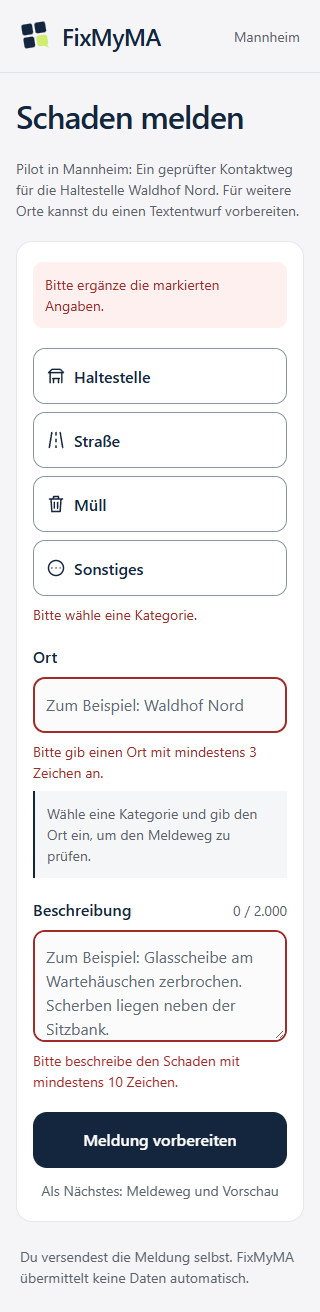
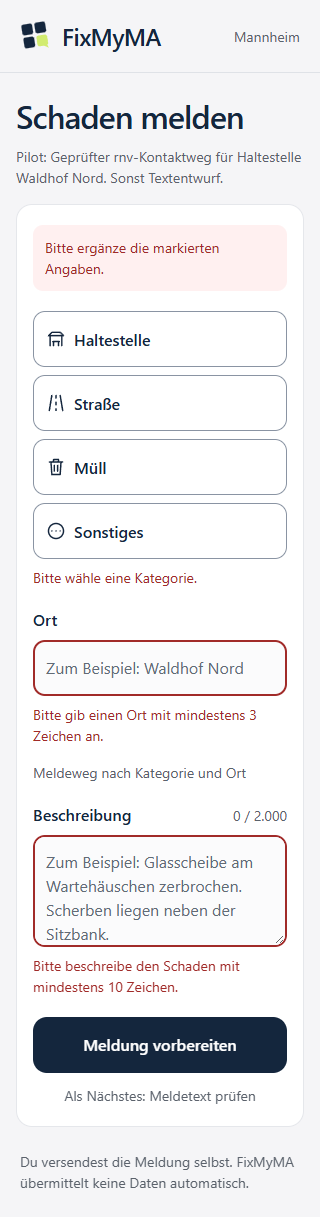
style: tighten pilot guidance and route notice spacing

diff --git a/src/App.tsx b/src/App.tsx
@@ -130,7 +130,7 @@ function App() {
           </div>
         ) : (
           <>
-          <p className="pilot-scope">Pilot in Mannheim: Ein geprüfter Kontaktweg für die Haltestelle Waldhof Nord. Für weitere Orte kannst du einen Textentwurf vorbereiten.</p>
+          <p className="pilot-scope">Pilot: Geprüfter rnv-Kontaktweg für Haltestelle Waldhof Nord. Sonst Textentwurf.</p>
           <form ref={formRef} onSubmit={submit} noValidate>
             {Object.values(errors).some(Boolean) && (
               <p className="error error-summary" role="alert">Bitte ergänze die markierten Angaben.</p>
@@ -164,7 +164,7 @@ function App() {
               {errors.location && <p className="error" id="location-error">{errors.location}</p>}
               <div className="route-notice" id="location-route" role="status" aria-live="polite" aria-atomic="true">
                 {!canCheckRoute ? (
-                  <p className="hint">Wähle eine Kategorie und gib den Ort ein, um den Meldeweg zu prüfen.</p>
+                  <p className="hint">Meldeweg nach Kategorie und Ort</p>
                 ) : hasOfficialRoute ? (
                   <>
                     <p className="route-notice-title">Geprüfter Meldeweg: rnv</p>
@@ -196,7 +196,7 @@ function App() {
 
             <div className="form-actions">
               <button className="primary" type="submit">Meldung vorbereiten</button>
-              <p className="hint">Als Nächstes: Meldeweg und Vorschau</p>
+              <p className="hint">Als Nächstes: Meldetext prüfen</p>
             </div>
           </form>
           </>

diff --git a/src/App.css b/src/App.css
@@ -25,10 +25,11 @@ form {
   background: var(--paper);
 }
 fieldset { border: 0; padding: 0; margin: 0; min-width: 0; }
-.pilot-scope { color: var(--secondary); font-size: 0.875rem; line-height: 1.5; margin: 0 0 20px; }
-.route-notice { padding: 12px; border-left: 2px solid var(--ink); background: #f5f6f8; line-height: 1.5; }
+.form-page h1 { margin-bottom: 12px; }
+.pilot-scope { color: var(--secondary); font-size: 0.875rem; line-height: 1.5; margin: 0 0 16px; }
+.route-notice { padding-top: 8px; line-height: 1.5; overflow-wrap: anywhere; }
 .route-notice-title { font-size: 0.875rem; font-weight: 600; }
-.route-notice p + p { margin-top: 8px; }
+.route-notice p + p { margin-top: 4px; }
 .route-notice a { display: flex; align-items: center; min-height: 48px; padding-block: 8px; font-size: 0.875rem; overflow-wrap: anywhere; }
 .categories { display: grid; grid-template-columns: repeat(auto-fit, minmax(min(100%, 8.5rem), 1fr)); gap: 8px; }
 .category {

diff --git a/src/routing.ts b/src/routing.ts
@@ -17,7 +17,7 @@ export function resolveReportingRoute(draft: Pick<ReportDraft, 'category' | 'loc
     return {
       kind: 'official-contact' as const,
       contact: reportingContacts.rnv,
-      explanation: 'Die Wartungszuständigkeit für die konkrete Glasscheibe ist nicht bestätigt.',
+      explanation: 'Wer die Glasscheibe wartet, ist nicht bestätigt.',
     }
   }
   return {

diff --git a/docs/pilot-review.md b/docs/pilot-review.md
@@ -1,0 +1,73 @@
+# FixMyMA: Pilot-Ablauf und Unslop-Nachprüfung
+
+22.11.2026 · Branch `feat/apple-inspired-design` · PR #8 bleibt zur Review offen.
+
+## Umfang und Ablauf
+
+Ausgangspunkt war `6fb9393`. Der vorhandene Formular-/Vorschaufluss war die Ablaufreferenz; im Auftrag war kein zusätzlicher Referenzlink enthalten.
+
+Der aktuelle Pilot unterstützt genau den bereits hinterlegten Kontaktweg: Kategorie Haltestelle, Ort Waldhof Nord einschließlich der vorhandenen Schreibweisen. Kontakt und Matching wurden nicht erweitert. Der kompakte, dunkelblaue Entwurf bleibt erhalten. Neue Kontakte benötigen weiterhin verifizierte Quellen.
+
+Der Umfang steht als kurzer Absatz direkt vor dem Formular. Sobald Kategorie und Ort gültig ausgefüllt sind, wird mit dem vorhandenen Routing ein Hinweis direkt unter dem Ort angezeigt. Eine Beschreibung ist dafür nicht nötig:
+
+- **Waldhof Nord / Haltestelle:** geprüfter rnv-Meldeweg, Hinweis auf die ungeklärte Wartungszuständigkeit und sofort nutzbarer rnv-Link im neuen Tab.
+- **Andere Kombinationen:** „Meldeweg offen“, ohne erfundenen Kontakt. Beschreibung, Textentwurf, Vorschau und Kopieren bleiben möglich.
+- **Unvollständige Eingaben:** neutraler Hinweis; keine voreilige Zusage eines geprüften Kontakts. Die vorhandene Eingabeprüfung bleibt maßgeblich.
+
+Kategorie- oder Ortsänderungen aktualisieren den Hinweis direkt. Der Status ist dem Ortsfeld zugeordnet und als höfliche Live-Region ausgezeichnet. Der Link liegt in der normalen Tab-Reihenfolge vor der Beschreibung. Ein Neuladen verwirft weiterhin die Daten; es gibt keinen automatischen Versand.
+
+Der Ablauf wurde separat als `148bbe9` committet. Der anschließende Commit enthält ausschließlich den Text-/Abstandsfeinschliff und seine Nachweise.
+
+## Unslop-Pass: Texte und Abstände
+
+Nach [Unslop von Damir Sokolovsky (@heydamir)](https://github.com/heydamir/unslop/blob/main/skills/unslop/SKILL.md), CC BY 4.0. Tatsächlich gerenderte Ansichten wurden vor und nach der Umsetzung bei 320 und 390 px geprüft. Keine Bild- oder Videogenerierung, keine zusätzliche Landingpage.
+
+Die Richtung bleibt: ein ruhiges, präzises Meldewerkzeug für Mannheim. Die Handlung und der Kontaktstatus tragen die Hierarchie; das bestehende Logo bleibt die Wiedererkennung. Farben, Symbole und große Bedienelemente des PR werden beibehalten.
+
+Befunde der ersten Ablaufversion: der Umfang war länger als nötig, die zusätzliche graue Hinweisfläche wirkte wie eine verschachtelte Kachel, und der Hinweis auf den nächsten Schritt erwähnte den Meldeweg erneut, obwohl dieser schon geprüft ist.
+
+Konkrete Korrekturen:
+
+- Titelabstand zum Pilotumfang auf 12 px, Umfangsabstand zum Formular auf 16 px verkürzt.
+- Umfang auf den geprüften Fall und den Textentwurf für weitere Orte konzentriert.
+- Hinweis unter dem Ort ohne zusätzliche Kachel oder farbige Fläche; Titel, kurze Erklärung und eine mindestens 48 px hohe Linkfläche.
+- Den langen Wartungsbegriff durch „Wer die Glasscheibe wartet, ist nicht bestätigt“ ersetzt. Die fachliche Unsicherheit bleibt erhalten.
+- Hilfstext beim Hauptbutton nennt jetzt den tatsächlichen nächsten Schritt: „Meldetext prüfen“.
+- Keine neue Farbe, kein neues Icon-System und keine Bewegung ergänzt. Haken, Fokuszustände, Schriftgrößen und 56-px-Hauptaktionen bleiben erhalten.
+
+## Vorher-/Nachher-Nachweise
+
+In allen Eingabe-Aufnahmen ist die Beschreibung absichtlich noch leer. Der Unterschied ist der sichtbare Kontaktstatus vor der Texterfassung.
+
+| Fall | Vorher | Nachher |
+| --- | --- | --- |
+| Waldhof Nord · 320 px | [Screenshot](screenshots/pilot/before-320-known.png) | [Screenshot](screenshots/pilot/after-320-known.png) |
+| Meldeweg offen · 320 px | [Screenshot](screenshots/pilot/before-320-open.png) | [Screenshot](screenshots/pilot/after-320-open.png) |
+| Waldhof Nord · 390 px | [Screenshot](screenshots/pilot/before-390-known.png) | [Screenshot](screenshots/pilot/after-390-known.png) |
+| Meldeweg offen · 390 px | [Screenshot](screenshots/pilot/before-390-open.png) | [Screenshot](screenshots/pilot/after-390-open.png) |
+
+Zwischenstand vor dem Unslop-Pass: [bekannter Fall, 390 px](screenshots/pilot/flow-390-known.png). Desktop-Nachprüfung: [bekannt](screenshots/pilot/after-1440-known.png), [offen](screenshots/pilot/after-1440-open.png).
+
+## Prüfungen
+
+Verwendet wurde der bereits vom Nutzer freigegebene separate Playwright-Testbrowser: Headless Chrome 157.0.8103.79 unter Windows, eigenes Testprofil. Mobile Viewports wurden emuliert; echte Geräte stehen nicht zur Verfügung. Die Hilfswerkzeuge liegen in einem ignorierten lokalen Verzeichnis; keine App-Abhängigkeiten wurden hinzugefügt.
+
+Bei 320 × 844, 390 × 844 und 1440 × 1000 px wurden jeweils sechs Szenarien geprüft:
+
+1. Kategorie und Ort zeigen den Kontaktstatus vor einer Beschreibung. Ein Ort ohne Kategorie gibt noch keinen Kontakt frei. Kategorie-/Ortsänderungen wechseln zwischen bekannt und offen; der frühe Link hat das bestehende offizielle Ziel und liegt räumlich vor der Beschreibung.
+2. Leere Eingaben und reine Leerzeichen: Fehlermeldungen und Fokus auf das erste fehlerhafte Feld.
+3. Waldhof Nord: Vorschau und Kontaktziel, echte Clipboard-Schreib-/Leseprüfung des vollständigen Meldetexts.
+4. Aufklappbare Quelle, Bearbeiten mit erhaltenen Werten, Wechsel auf Paradeplatz und geänderte Beschreibung, offener Meldeweg ohne Kontakt sowie weiterhin kopierbarer Text.
+5. Tastatur: Radiogruppe mit Pfeiltasten, Ort, früher rnv-Link, Beschreibung, Absenden und Kopieren. Die Einführung des Links verschluckt keinen Fokus und verlangt kein Tippen der Beschreibung zum Prüfen des Meldewegs.
+6. Simulierter Clipboard-API-Fehler: verständliche Rückmeldung, Fokus und Auswahl auf dem Text. Anschließend echtes manuelles Kopieren mit Strg+C geprüft. Windows-Zeilenenden wurden nur im Vergleich normalisiert.
+
+Der maschinenlesbare Bericht steht in [browser-checks.json](screenshots/pilot/browser-checks.json). Zusätzlich wurden schmale Ansichten und 200 % Schriftgröße ohne horizontalen Überlauf geprüft. Bei 320 px und nach eingeblendeten Statusinformationen kann die Seite vertikal länger sein; Schrift oder Klickflächen werden dafür nicht verkleinert.
+
+Vor beiden Commits bestanden Lint, alle neun Vitest-Tests und der Produktionsbuild einschließlich TypeScript-Prüfung. Die Tests decken zusätzlich ausdrücklich Routing ohne vorhandene Beschreibung ab. Alle 18 Browser-Szenarien (je sechs pro Viewport) bestanden ohne JavaScript-Laufzeitfehler.
+
+## Offene echte Gerätetests
+
+- [ ] iPhone – Safari: echte Bildschirmtastatur, Fokus/Scrollen, Kopieren und Zurückbearbeiten.
+- [ ] Android – Chrome: echte Bildschirmtastatur, Fokus/Scrollen, Kopieren und Zurückbearbeiten.
+
+Diese Punkte sind offen und werden auch im PR so markiert. Das externe Kontaktformular wurde nicht abgesendet. PR #8 bleibt ungemergt zur Review.

diff --git a/AGENTS.md b/AGENTS.md
@@ -7,7 +7,7 @@ Diese Regeln gelten für das gesamte Repository. Konkrete Anweisungen des Nutzer
 FixMyMA hilft Menschen in Mannheim, Schäden im öffentlichen Raum zu beschreiben, einen verifizierten Meldeweg zu finden und einen Meldetext zur eigenen Weitergabe vorzubereiten.
 
 - Aktueller Stand: Frontend-MVP mit React, TypeScript und Vite; Vitest für Tests, Oxlint für Linting. Verwende npm und die vorhandenen npm-Skripte. Die CI verwendet Node.js 24.
-- Ablauf: Kategorie, Ort und Beschreibung eingeben, Vorschau prüfen, Angaben bei Bedarf ohne Datenverlust bearbeiten und Meldetext kopieren.
+- Ablauf: Nach Kategorie und Ort den bestehenden Meldeweg direkt unter dem Ort zeigen, noch vor der Beschreibung. Pilotumfang: geprüfter rnv-Kontaktweg für Haltestelle Waldhof Nord, sonst offener Meldeweg mit Textentwurf. Danach Beschreibung ergänzen, Vorschau prüfen, Angaben ohne Datenverlust bearbeiten und Meldetext kopieren.
 - Referenzfall: kaputte Glasscheibe am Wartehäuschen der Haltestelle Waldhof Nord in Mannheim.
 - Es gibt aktuell kein Backend, keine dauerhafte Speicherung und keinen automatischen Versand. Eingaben liegen im React-Arbeitsspeicher und gehen beim Neuladen verloren. Neue Speicherung oder Versandfunktionen gehören nur in ausdrücklich entsprechend beauftragte Aufgaben.
 - Ein offizieller Kontaktweg bestätigt nicht automatisch die Eigentümerschaft oder Wartungszuständigkeit für ein einzelnes Objekt. Kontakte und Zuständigkeiten niemals erfinden. Neue Zuordnungen anhand offizieller Quellen prüfen und Quelle sowie Prüfdatum festhalten. Unklarheiten in der Oberfläche sichtbar lassen.

diff --git a/README.md b/README.md
@@ -52,6 +52,8 @@ CodeQL verwendet GitHubs Default Setup für JavaScript/TypeScript. Ergebnisse st
 
 ## Browserprüfung und Designreview
 
+Die aktuelle [Pilot-Prüfung](docs/pilot-review.md) dokumentiert den Meldeweg-Hinweis vor der Beschreibung, bekannte und offene Fälle bei 320 und 390 px sowie die noch offenen echten Gerätetests für iPhone-Safari und Android-Chrome.
+
 Formular und Vorschau wurden bei 390 × 844 px und 1440 × 1000 px vor und nach der Gestaltung im Browser geprüft. Validierung, Waldhof Nord, ein unbekannter Ort, Bearbeiten, Tastaturbedienung und echtes Kopieren wurden mit einem lokalen Playwright-Testbrowser geprüft. Ein simulierter Clipboard-Fehler wurde zusätzlich bis zum manuellen Kopieren getestet. Vorher-/Nachher-Screenshots, Messwerte und die genauen Prüfgrenzen stehen im [Apple-inspirierten Designreview](docs/apple-design-review.md); die vorherige Richtung bleibt im [Stadtleitsystem-Review](docs/design-review.md) dokumentiert.
 
 Offen bleiben Tests auf einem physischen Smartphone mit Bildschirmtastatur sowie weitere Browser-Engines. Die mobilen Aufnahmen zeigen eine Browser-Emulation.

diff --git a/docs/design-review.md b/docs/design-review.md
@@ -1,6 +1,6 @@
 # FixMyMA: gerenderter Designreview
 
-Aktueller Gestaltungsvorschlag zur Sichtprüfung: [Apple-inspirierter Designreview mit neuen Screenshots](apple-design-review.md). Der folgende Abschnitt dokumentiert die vorherige Stadtleitsystem-Richtung.
+Aktueller Stand zur Sichtprüfung: [Pilot-Ablauf mit frühem Meldeweg-Hinweis](pilot-review.md). Die [Apple-inspirierte Gestaltung und ihre zurückhaltende Farbkorrektur](apple-design-review.md) bleiben dokumentiert; der folgende Abschnitt beschreibt die frühere Stadtleitsystem-Richtung.
 
 ## Mannheimer Stadtleitsystem · 22.11.2026
 
